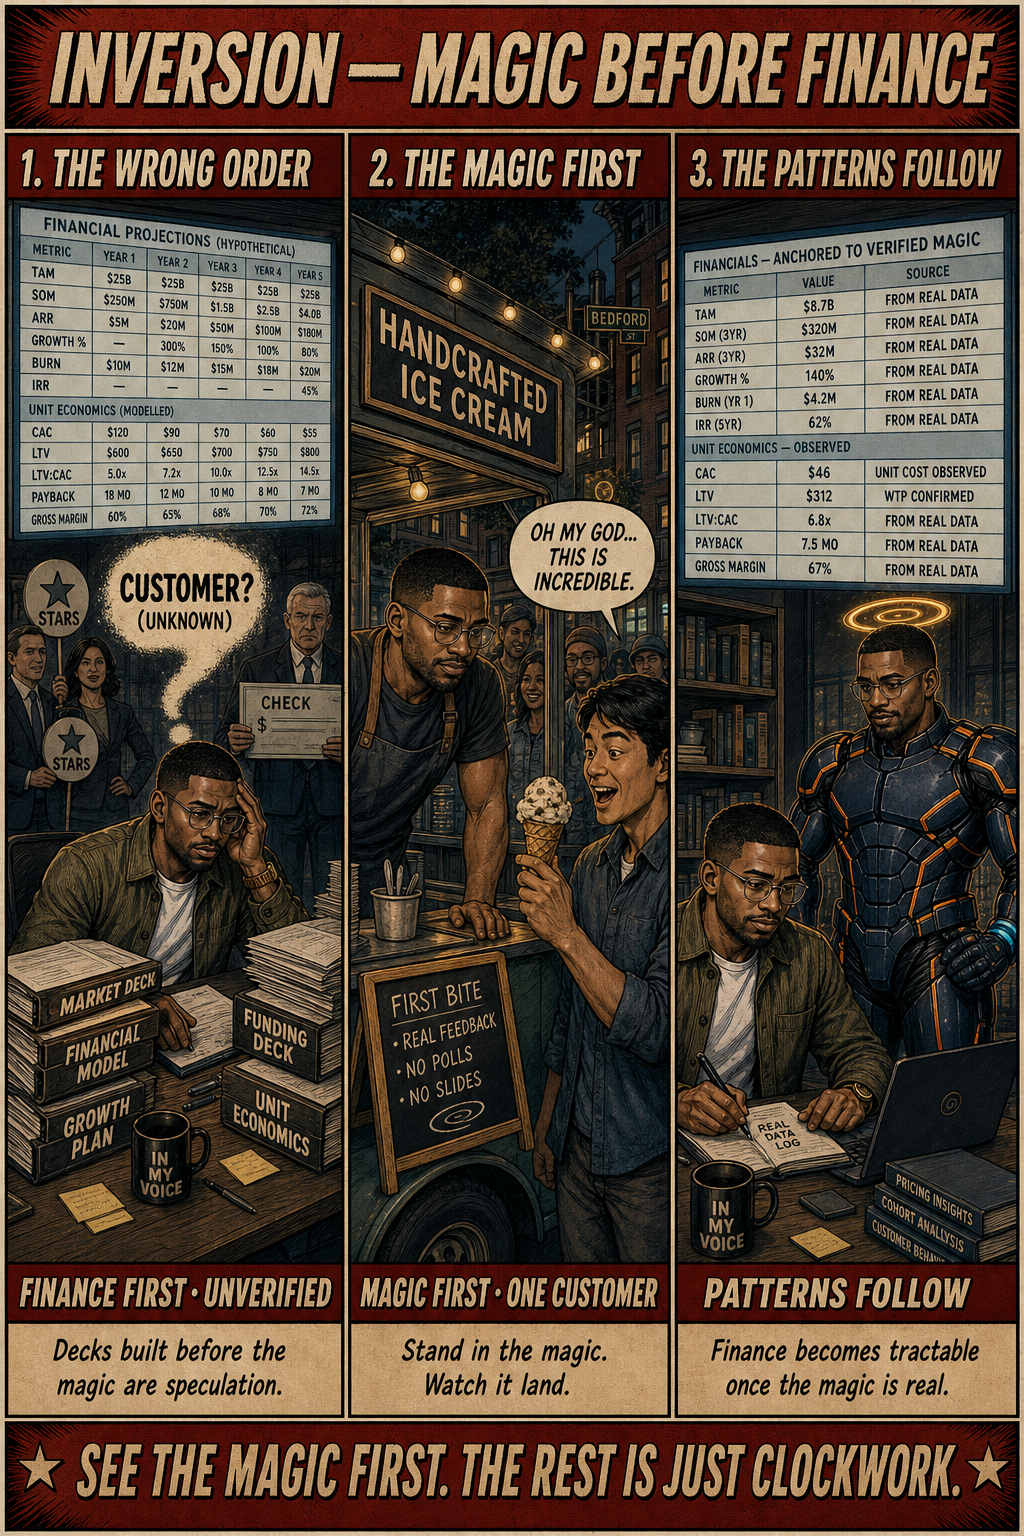
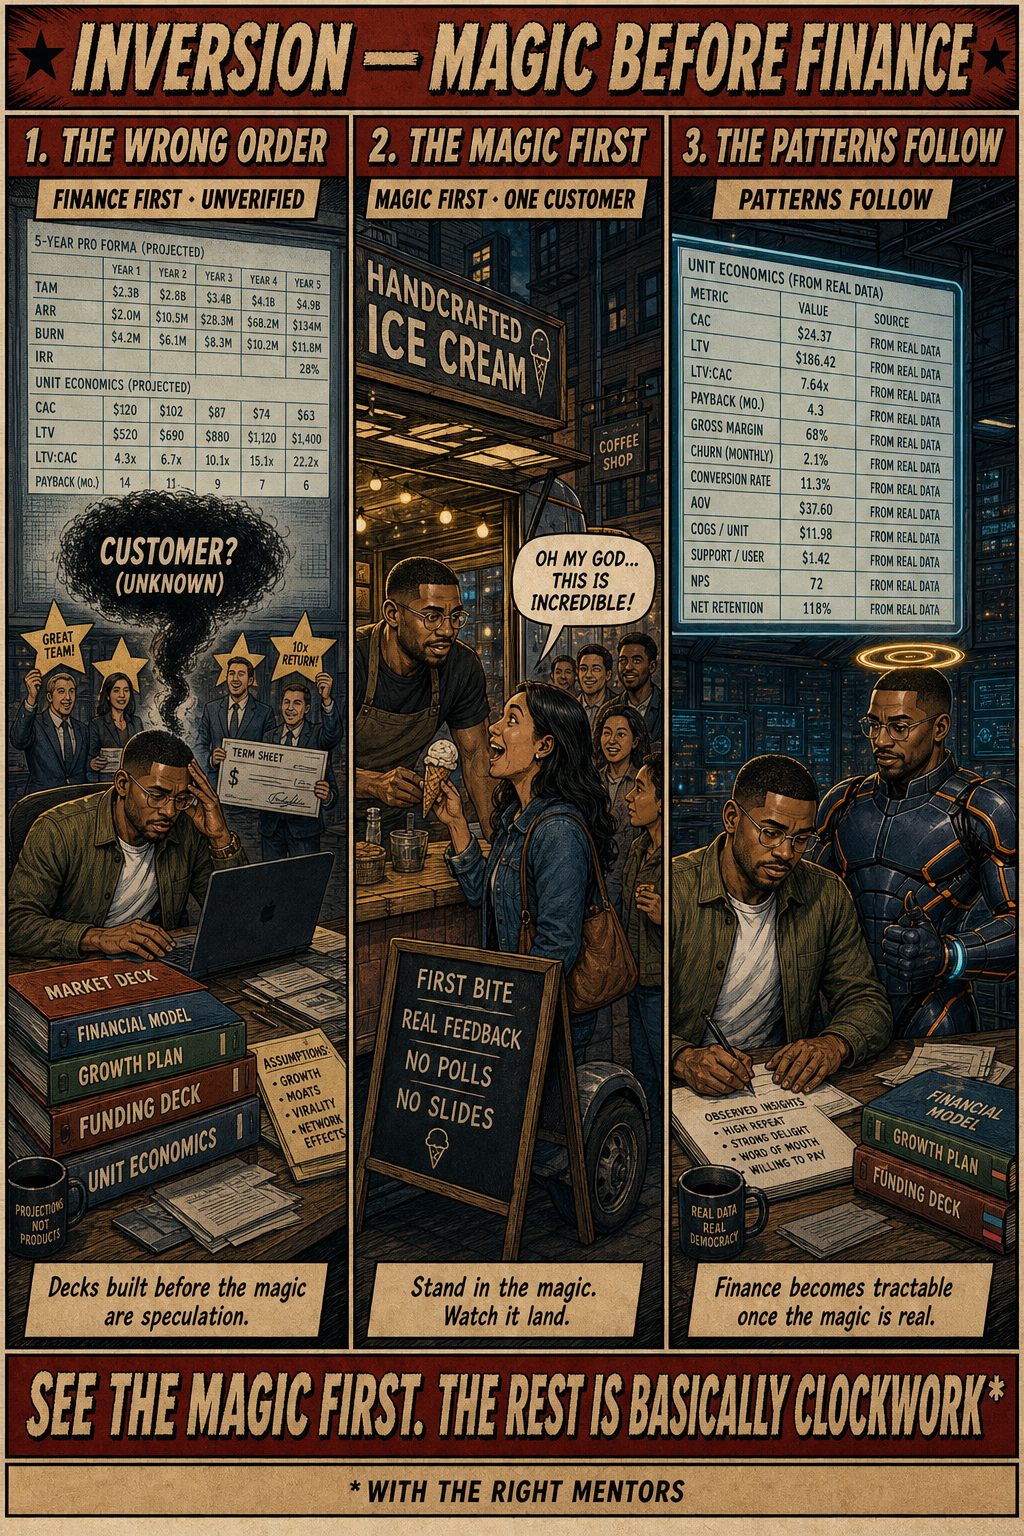
Magic moment + Inversion: infographic vignette, asterisk-mentors footer
- Magic moment panel 1: replace Shopify-shop with INFOGRAPHIC
  GENERATED vignette (founder receives AI-generated polished
  infographic, 'WOW IT ACTUALLY LOOKS DESIGNED', PROMPT → ARTIFACT
  label). Visceral handoff that matches the agentic-business moment.
- Both magic moment and inversion footers updated to two-bar
  treatment: main red bar with THE REST IS BASICALLY CLOCKWORK*, cream
  sub-bar with the *WITH THE RIGHT MENTORS qualifier. The footnote
  honors the truth that the patterns/clockwork only run when mentor
  context is in place.

diff --git a/docs/principles/the-magic-moment.md b/docs/principles/the-magic-moment.md
@@ -8,7 +8,7 @@ description: "Every business has one specific transaction where value is deliver
 
 *Every business has one specific transaction where value is delivered. Build everything backwards from that moment.*
 
-![Three-panel comic. 1. EVERY BUSINESS HAS ONE: a horizontal 3-vignette strip showing three magic-moment scenes side by side — ICE CREAM (a customer at a food-truck counter receives a cone, takes the first lick, eyes lighting up), HAIRCUT (a customer in a salon chair just spun toward a large mirror sees their fresh cut in the reflection, face brightening, stylist behind smiling), SHOPIFY SHOP BUILT (a young Black female founder at her laptop has just clicked PUBLISH on her LUMI SUPPLY store, a FIRST ORDER! \$48 notification popping up, she throws her hands up in joy). Caption: 'Every business has one specific moment where value crystallizes.' 2. MOST FOUNDERS NEVER NAME IT: a founder sits at a desk surrounded by chaotic stacks of decks (MARKETING PLAN, TEAM ORG CHART, INVESTOR DECK, FINANCIAL MODEL, SALES DECK, HIRING PLAN, BRAND STRATEGY, PRODUCT ROADMAP, IN MY HEAD: TO DOs); at the center where the magic moment should be there is just a fuzzy question-marked silhouette; the founder looks scattered; banner REACTIVE · UNFOCUSED. Caption: 'Most founders never name it. They react to stories.' 3. NAME IT FIRST: the canonical Blasian supersuited operator stands inside the named magic moment (a specific concrete scene with a customer receiving a finished artifact box stamped FINANCE / DELIVERED / EXACTLY WHAT I NEEDED); around and behind him, MARKETING, FINANCE, PRODUCT, HIRES, SALES, OPERATIONS arrayed as supporting beams pointing inward; banner MOMENT NAMED · EVERYTHING SERVES IT. Caption: 'Name it. Build everything backwards from it.' Title bar: THE MAGIC MOMENT. Footer bar: NAME THE MOMENT. THE REST IS JUST CLOCKWORK.](/img/comics/the-magic-moment.png)
+![Three-panel comic. 1. EVERY BUSINESS HAS ONE: a horizontal 3-vignette strip showing three magic-moment scenes side by side — ICE CREAM (a customer at a food-truck counter receives a cone, takes the first lick, eyes lighting up), HAIRCUT (a customer in a salon chair just spun toward a large mirror sees their fresh cut in the reflection, face brightening, stylist behind smiling), INFOGRAPHIC GENERATED (a young Black female founder at her laptop has just received an AI-generated polished complex infographic on her screen — visible charts, callouts, ranked lists, polished editorial layout, a sparkle effect indicating it was just generated; she leans back wide-eyed with delight; PROMPT → ARTIFACT label visible). Caption: 'Every business has one specific moment where value crystallizes.' 2. MOST FOUNDERS NEVER NAME IT: a founder sits at a desk surrounded by chaotic stacks of decks (MARKETING PLAN, TEAM ORG CHART, INVESTOR DECK, FINANCIAL MODEL, SALES DECK, HIRING PLAN, BRAND STRATEGY, PRODUCT ROADMAP, IN MY HEAD: TO DOs); at the center where the magic moment should be there is just a fuzzy question-marked silhouette; the founder looks scattered; banner REACTIVE · UNFOCUSED. Caption: 'Most founders never name it. They react to stories.' 3. NAME IT FIRST: the canonical Blasian supersuited operator stands inside the named magic moment (a specific concrete scene with a customer receiving a finished artifact box stamped FINANCE / DELIVERED / EXACTLY WHAT I NEEDED); around and behind him, MARKETING, FINANCE, PRODUCT, HIRES, SALES, OPERATIONS arrayed as supporting beams pointing inward; banner MOMENT NAMED · EVERYTHING SERVES IT. Caption: 'Name it. Build everything backwards from it.' Title bar: THE MAGIC MOMENT. Footer (two-bar): main red bar reads NAME THE MOMENT. THE REST IS BASICALLY CLOCKWORK*; cream sub-bar beneath reads *WITH THE RIGHT MENTORS.](/img/comics/the-magic-moment.png)
 
 ---
 

diff --git a/docs/principles/inversion.md b/docs/principles/inversion.md
@@ -8,7 +8,7 @@ description: "Do not start with the business plan or the financials. Start with 
 
 *Do not start with the business plan or the financials. Start with the magic moment. The financials emerge from the magic, not the other way around.*
 
-![Three-panel comic. 1. THE WRONG ORDER: founder at desk surrounded by giant decks (MARKET DECK, FINANCIAL MODEL, GROWTH PLAN, FUNDING DECK, UNIT ECONOMICS) and a massive financial spreadsheet projected on the wall showing TAM/ARR/BURN/IRR; a huge fuzzy question mark hovers labeled CUSTOMER? (UNKNOWN); investors hold STARS or CHECKS; banner FINANCE FIRST · UNVERIFIED. Caption: 'Decks built before the magic are speculation.' 2. THE MAGIC FIRST: founder behind a small HANDCRAFTED ICE CREAM food-truck counter watching one specific customer take the first bite of an ice cream cone, eyes lighting up (OH MY GOD... THIS IS INCREDIBLE), with a small chalkboard sign reading FIRST BITE · REAL FEEDBACK · NO POLLS · NO SLIDES; line of curious passers-by visible; banner MAGIC FIRST · ONE CUSTOMER. Caption: 'Stand in the magic. Watch it land.' 3. THE PATTERNS FOLLOW: founder back at the desk fills in a clean spreadsheet anchored to the verified magic moment (FROM REAL DATA · UNIT COST OBSERVED · WTP CONFIRMED); the canonical Blasian supersuited operator stands beside him approvingly; banner PATTERNS FOLLOW. Caption: 'Finance becomes tractable once the magic is real.' Title bar: INVERSION — MAGIC BEFORE FINANCE. Footer bar: SEE THE MAGIC FIRST. THE REST IS JUST CLOCKWORK.](/img/comics/inversion.png)
+![Three-panel comic. 1. THE WRONG ORDER: founder at desk surrounded by giant decks (MARKET DECK, FINANCIAL MODEL, GROWTH PLAN, FUNDING DECK, UNIT ECONOMICS) and a massive financial spreadsheet projected on the wall showing TAM/ARR/BURN/IRR; a huge fuzzy question mark hovers labeled CUSTOMER? (UNKNOWN); investors hold STARS or CHECKS; banner FINANCE FIRST · UNVERIFIED. Caption: 'Decks built before the magic are speculation.' 2. THE MAGIC FIRST: founder behind a small HANDCRAFTED ICE CREAM food-truck counter watching one specific customer take the first bite of an ice cream cone, eyes lighting up (OH MY GOD... THIS IS INCREDIBLE), with a small chalkboard sign reading FIRST BITE · REAL FEEDBACK · NO POLLS · NO SLIDES; line of curious passers-by visible; banner MAGIC FIRST · ONE CUSTOMER. Caption: 'Stand in the magic. Watch it land.' 3. THE PATTERNS FOLLOW: founder back at the desk fills in a clean spreadsheet anchored to the verified magic moment (FROM REAL DATA · UNIT COST OBSERVED · WTP CONFIRMED); the canonical Blasian supersuited operator stands beside him approvingly; banner PATTERNS FOLLOW. Caption: 'Finance becomes tractable once the magic is real.' Title bar: INVERSION — MAGIC BEFORE FINANCE. Footer (two-bar): main red bar reads SEE THE MAGIC FIRST. THE REST IS BASICALLY CLOCKWORK*; cream sub-bar beneath reads *WITH THE RIGHT MENTORS.](/img/comics/inversion.png)
 
 ---
 
